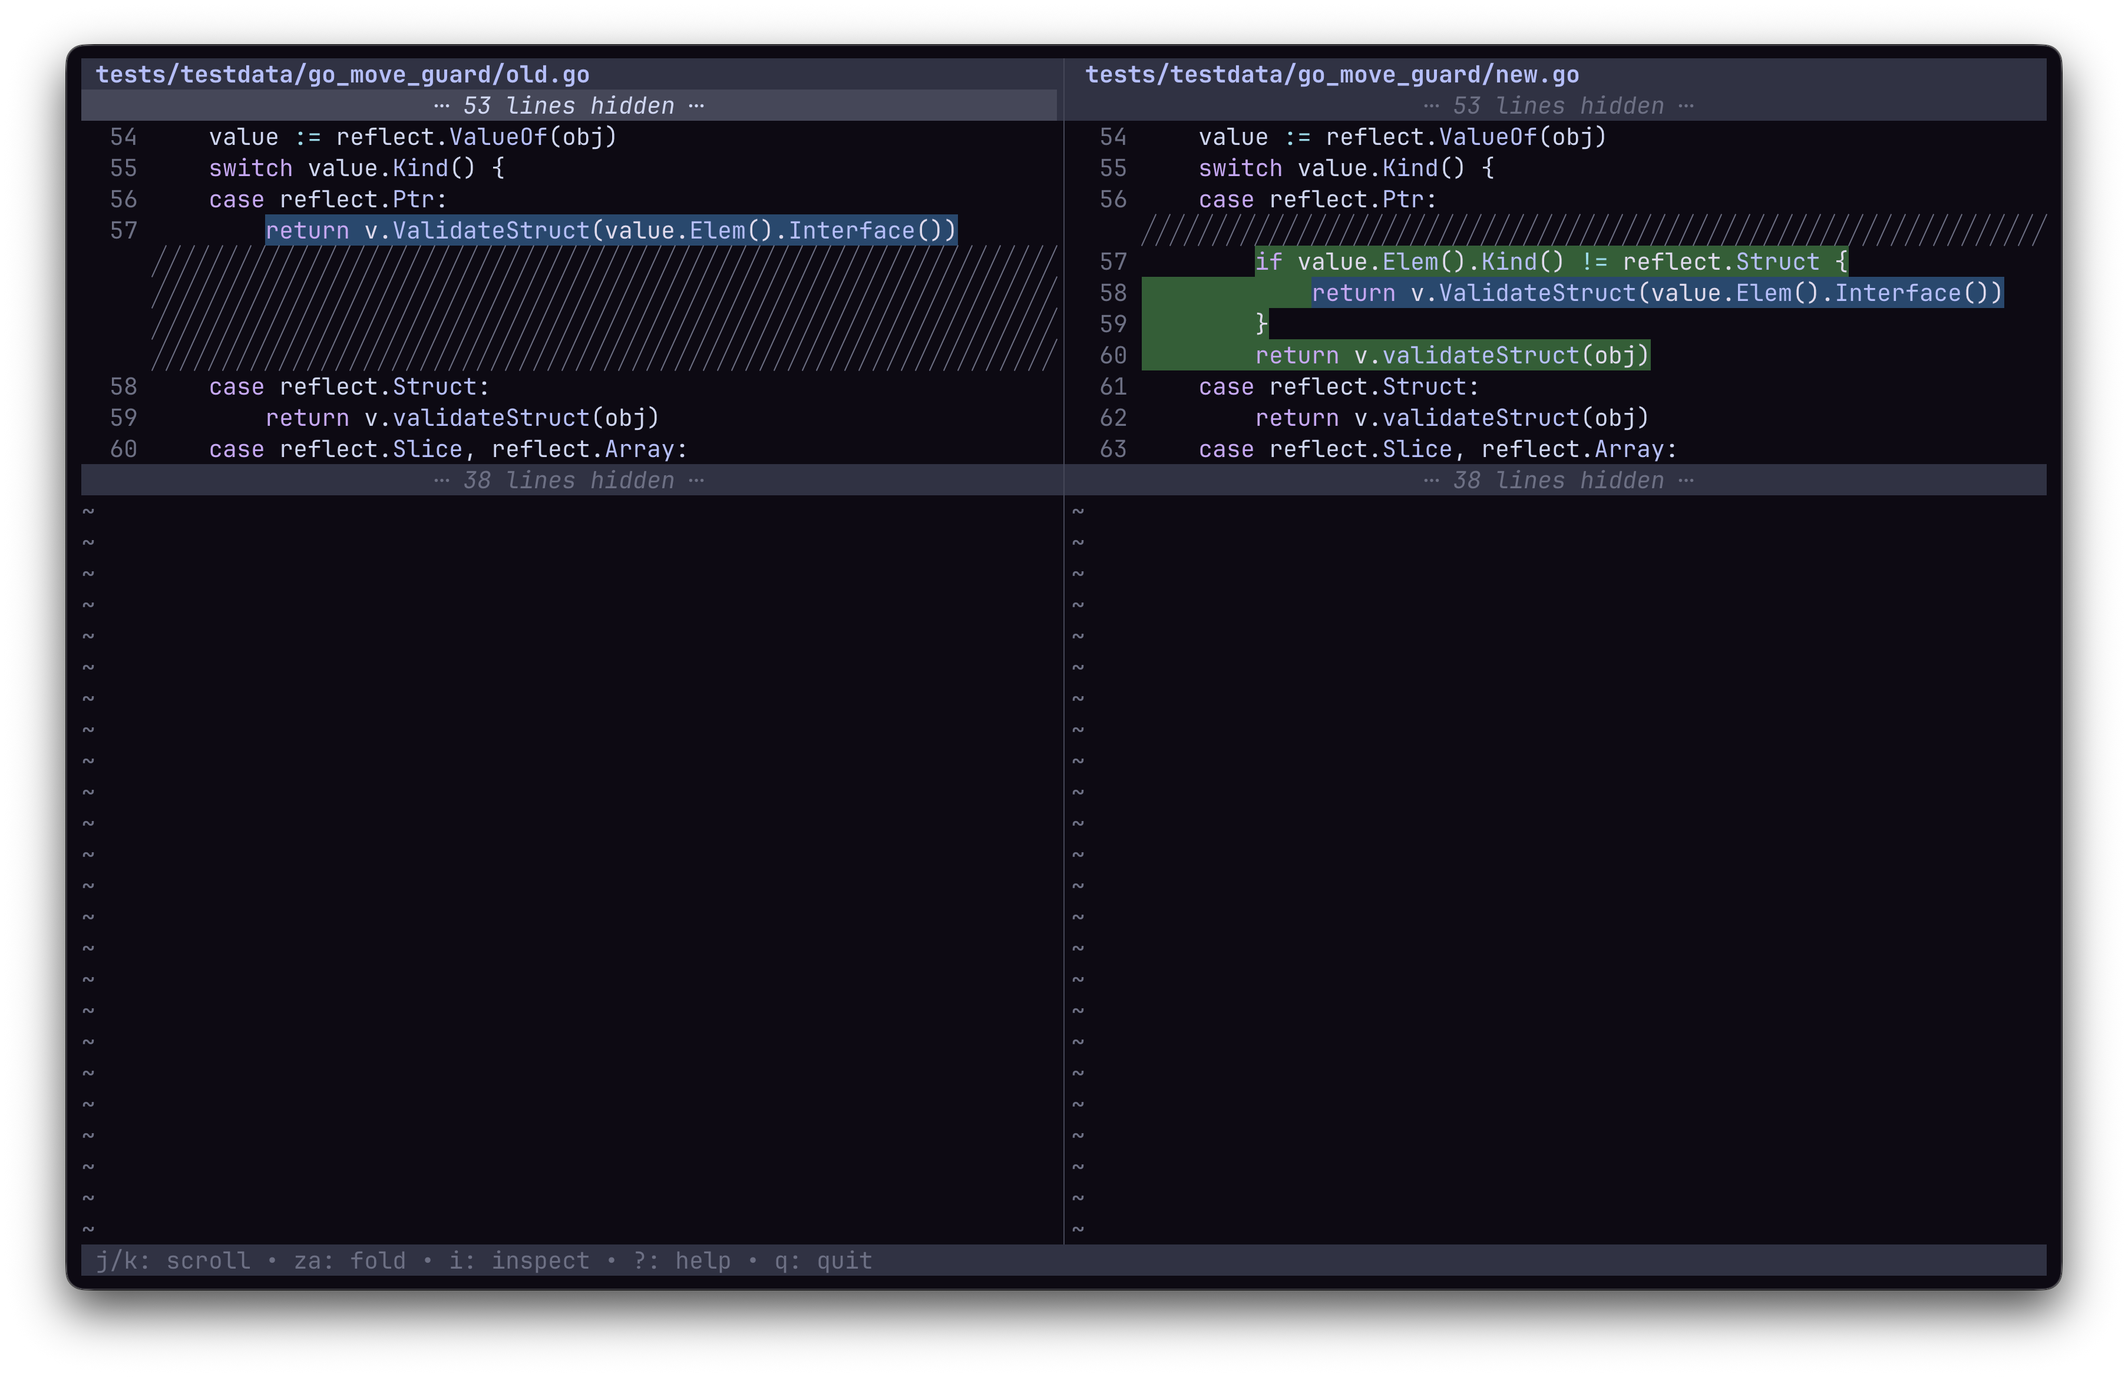
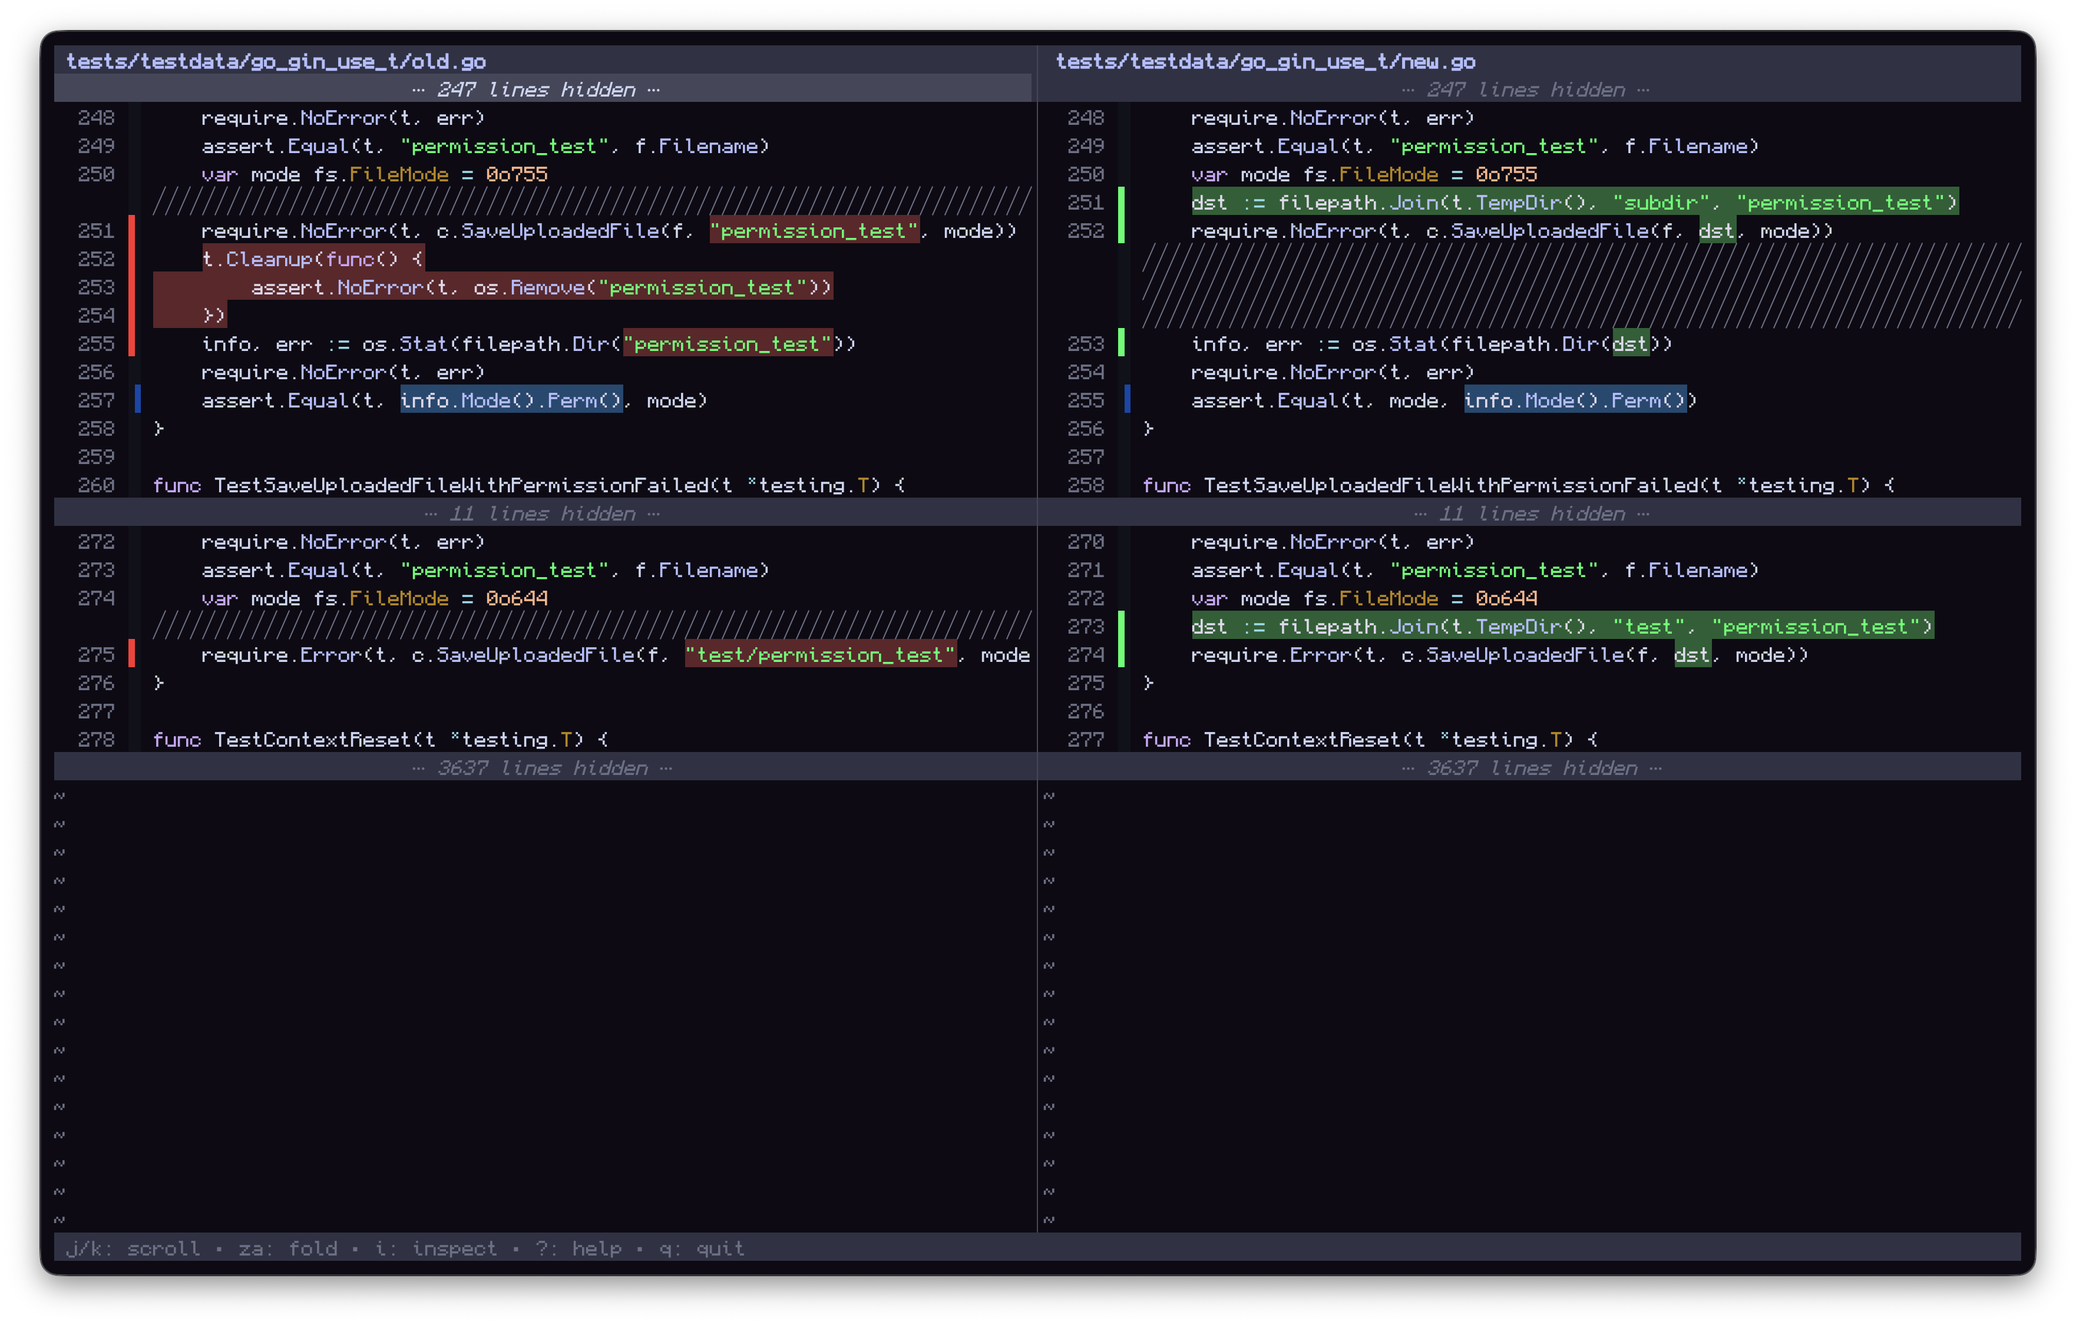
chore(release): prepare v0.5.0 release with 16-language build targets and CHANGELOG (#98)
Bump CLI version to 0.5.0 in cmd/root.go.
Add CHANGELOG.md documenting all 16 supported languages and v0.5.0 features.
Update Makefile and GoReleaser with selective 16-language build targets.
Update README with 16-language support table and custom build targets.
Configure release workflow to extract version notes directly from CHANGELOG.md.

Changed region(s): [[0.0, 0.0, 0.9989, 0.9956]]

diff --git a/cmd/root.go b/cmd/root.go
@@ -32,7 +32,7 @@ import (
 
 var rootCmd = &cobra.Command{
 	Use:     "diffm [refA] [refB]",
-	Version: "0.4.0",
+	Version: "0.5.0",
 	Short:   "Semantic diff engine powered by Tree-sitter",
 	Long: `diffmantic is a structural source code diff engine.
 
@@ -41,9 +41,7 @@ differences. It detects not just what lines changed, but what code structures
 were inserted, deleted, updated, moved, or renamed.
 
 Works as a standalone CLI, a git difftool, or a backend engine for editor
-plugins (Neovim, VS Code) via JSON output.
-
-Supported languages: Go, JavaScript, TypeScript, Python.`,
+plugins (Neovim, VS Code) via JSON output.`,
 	Args: cobra.ArbitraryArgs,
 	Run: func(cmd *cobra.Command, args []string) {
 		if git.IsGitRepository(".") {

diff --git a/CHANGELOG.md b/CHANGELOG.md
@@ -1,0 +1,137 @@
+# Changelog
+
+All notable changes to Diffmantic will be documented in this file.
+
+The format is based on [Keep a Changelog](https://keepachangelog.com/en/1.0.0/),
+and this project adheres to [Semantic Versioning](https://semver.org/spec/v2.0.0.html).
+
+## [Unreleased]
+
+## [0.5.0] - 2026-08-15
+
+### Added
+- Completed support for all 16 target languages and formats: Go, Java, JavaScript, TypeScript, JSX, TSX, Python, Rust, Zig, C, C++, PHP, Ruby, JSON, YAML, TOML, HTML, CSS, and Lua with 100+ golden integration test fixtures.
+- Added order-insensitive container node matching (`unordered`) for JSON objects, YAML mappings, TOML tables, HTML start tags, CSS selectors, Python dictionaries/sets, and Ruby hashes (PR #90).
+- Added key-value pair value container and key-name affinity matching across dictionary and map entries (PR #91).
+- Added native keyword container mapping (`keywords`) in parent containers, eliminating cross-scope keyword stealing (PR #85).
+- Added multi-line scalar and literal flattening (`flattened`) for multi-line strings, text blocks, comments, and doc comments across languages.
+- Added 400 KB file size safety limit with automatic fallback to line diffing on large source files (PR #70).
+- Added dynamic worker concurrency throttling in TUI Git status precomputation to keep memory usage under 1.8 GB (PR #72).
+- Added Action Inspector panel, change indicators, edge chevrons, and jump keys (`n`, `N`, `[`, `]`) to the TUI viewer (PR #79).
+
+### Changed
+- Shifted structural punctuation marks to ignored rules in language rule files so formatting changes do not pollute diff output (PR #83).
+- Updated production build configuration to embed the 16 core target languages using selective build tags (`grammar_subset`), reducing binary size to 13.06 MB (-55.2%).
+- Upgraded Tree-sitter core dependency from `gotreesitter` v0.48.1 to v0.50.1 (PR #97).
+
+### Fixed
+- Fixed large-distance line jumping during LineDiff DP backtracking on repeated token patterns.
+- Fixed container node matching in Bottom-Up phase with container tag-name affinity for HTML and XML elements.
+- Fixed unaligned line pair gaps by coalescing unaligned deletion and insertion rows in the alignment grid (PR #81).
+
+### Performance
+- Parallelized AST parsing (File A and File B) and line group partitioning concurrently using goroutines (PR #96), reducing full pipeline latency by ~20.5% suite-wide.
+- Rewrote Chawathe edit script child alignment with direct O(1) parent pointer checks (PR #56), cutting edit script execution time by 19.84% (geometric mean) and reducing heap allocations by 33.89%.
+- Accelerated engine performance across large 10,000-line fixtures (PR #74), achieving a 36.0% overall execution time drop (2,098 ms down to 1,333 ms geomean) and cutting heap memory by 635 MB.
+- Compacted AST nodes into root-owned flat arrays in `ASTIndex` (PR #55), reducing `BenchmarkMatch` execution time by 17.34% (geometric mean) and memory by 11.12%.
+- Reduced compiled binary size from 29.12 MB down to 13.06 MB, achieving a 55.2% size reduction using selective build tags (`grammar_subset`) and symbol stripping flags (`-ldflags="-s -w" -trimpath`).
+
+### Security
+- Updated build and dependency configurations to enforce trimmed paths and stripped symbols in production executables.
+
+## [0.4.0] - 2026-08-06
+
+### Added
+- Added Universal LineDiff engine with Matsumoto line group partitioning for line-level diffing on unstructured text and fallback cases (PR #46), cutting large diff latency by 42.17% (geometric mean) and saving 43.04% RAM (~48.7 MB per diff).
+- Added compact AST Arena index (`ASTIndex`) storing pre-order and post-order node IDs in flat arrays for O(1) subtree containment checks.
+- Added Zhang-Shasha tree edit distance recovery for exact alignment of small unmatched subtrees.
+- Added automated path-aware benchmarking workflow for pull requests.
+
+### Changed
+- Updated Tree-sitter core dependency from `gotreesitter` v0.16.0 to v0.48.1.
+
+### Fixed
+- Fixed memory thrashing during line alignment on 14,000-line files by trimming unchanged prefixes and suffixes before running LCS dynamic programming (PR #51), cutting suite execution time by 17.57% (geometric mean) and memory by 12.32%.
+
+### Performance
+- Accelerated `TopDown` candidate matching by pre-computing similarity metrics once per candidate pair and indexing height buckets with 64-bit subtree hashes. On a single 4,042-line Rust file (`rust_expr_call_precedence`), candidate sort time dropped from 9.30 seconds to 85.8 microseconds (108,000x sort speedup) and overall diff time dropped by 5.3x.
+- Accelerated `BottomUp` candidate matching by walking mapped ancestor chains instead of scanning all target nodes, speeding up BottomUp execution by 6.9x.
+- Accelerated leaf node matching with type and label hash maps alongside similarity memoization (PR #48), cutting suite execution time by 5.31% (geomean) and dropping peak leaf matching time on a single 500 KB file (`eval.lua`) from 1 minute 47 seconds to 65 milliseconds (2,000x peak speedup).
+- Accelerated line alignment serialization by trimming unchanged prefix and suffix runs (PR #51), reducing matrix memory allocations by 20,000x and speeding up peak serialization on a single 14,000-line file from 1.9 seconds to 2.7 milliseconds (700x peak speedup).
+
+### Security
+- Updated Tree-sitter dependency to patch upstream parsing vulnerabilities.
+
+## [0.3.0] - 2026-07-31
+
+### Added
+- Added revision diffing support so users can diff git commits directly with commands like `diffm HEAD~1 HEAD`.
+- Added path filtering support in Git diff mode.
+- Added automated Homebrew tap updates to the release pipeline.
+
+### Changed
+- Refactored core engine helpers to use Go standard library `slices` and `maps` packages, removing over 1,000 lines of custom helper code.
+
+### Fixed
+- Fixed noise from structural delimiters like parentheses, brackets, and braces through delimiter aliasing and post-processing punctuation filtering.
+- Fixed crashes on merge conflict files by adding fallback line-diff handling.
+
+### Performance
+- Reduced engine memory overhead by eliminating custom helper slice allocations in favor of Go standard library primitives.
+
+### Security
+- Verified safe handling of untrusted diff inputs and revision specifications.
+
+## [0.2.0] - 2026-07-26
+
+### Added
+- Added interactive terminal user interface built with Bubbletea, Lipgloss, and Bubbles.
+- Added interactive Git status mode with file tree navigation, file staging (`s`), unstaging (`u`), and inline commit capability (`c`).
+- Added Action Inspector panel (`i` key) displaying detailed AST edit action data for active lines.
+- Added syntax highlighting powered by Tree-sitter query highlights with Catppuccin Mocha color palette.
+- Added code folding for unchanged blocks while retaining surrounding context lines.
+- Added side-by-side line alignment grid syncing matching AST nodes across left and right panes.
+- Added navigation controls including vim movement keys, search, viewport centering (`z.`, `zt`, `zb`), and modal help window (`?`).
+- Added function declaration matching by receiver type and function name.
+
+### Changed
+- Updated CLI display output to launch interactive TUI mode by default when running in a terminal.
+
+### Fixed
+- Fixed scroll alignment bugs during side-by-side rendering in narrow terminal windows.
+
+### Performance
+- Optimized TUI view rendering by caching highlighted line spans across redraw cycles.
+
+### Security
+- Verified terminal escape sequence handling to prevent terminal injection.
+
+## [0.1.0] - 2026-07-14
+
+### Added
+- Created core structural AST diffing engine in Go using Tree-sitter.
+- Added two-pass tree matching pipeline with `TopDown` height-bucket matching and `BottomUp` subtree similarity matching.
+- Added Chawathe edit script generator producing atomic Insert, Delete, Move, and Update actions.
+- Added post-processing step to collapse redundant child actions into single block operations.
+- Added AST language parser rules for Go, Python, JavaScript, and TypeScript.
+- Created `diffm` CLI entry point with versioned JSON v1 schema output support.
+- Added initial release workflow configuration with GoReleaser.
+
+### Changed
+- Initial public release of Diffmantic structural diff engine.
+
+### Fixed
+- Initial release.
+
+### Performance
+- Initial baseline engine implementation.
+
+### Security
+- Initial baseline release security check.
+
+[Unreleased]: https://github.com/HarshK97/diffmantic/compare/v0.5.0...HEAD
+[0.5.0]: https://github.com/HarshK97/diffmantic/compare/v0.4.0...v0.5.0
+[0.4.0]: https://github.com/HarshK97/diffmantic/compare/v0.3.0...v0.4.0
+[0.3.0]: https://github.com/HarshK97/diffmantic/compare/v0.2.0...v0.3.0
+[0.2.0]: https://github.com/HarshK97/diffmantic/compare/v0.1.0...v0.2.0
+[0.1.0]: https://github.com/HarshK97/diffmantic/releases/tag/v0.1.0

diff --git a/README.md b/README.md
@@ -7,7 +7,7 @@
     <a href="https://github.com/HarshK97/diffmantic/actions/workflows/ci.yml"><img src="https://github.com/HarshK97/diffmantic/actions/workflows/ci.yml/badge.svg" alt="CI"></a>
     <a href="https://github.com/HarshK97/diffmantic/releases/latest"><img src="https://img.shields.io/github/v/release/HarshK97/diffmantic?label=release" alt="Latest Release"></a>
     <a href="https://github.com/HarshK97/diffmantic/blob/main/LICENSE"><img src="https://img.shields.io/github/license/HarshK97/diffmantic" alt="License: MIT"></a>
-    <a href="https://pkg.go.dev/github.com/HarshK97/diffmantic"><img src="https://img.shields.io/badge/Go-1.24+-00ADD8?logo=go&logoColor=white" alt="Go Version"></a>
+    <a href="https://pkg.go.dev/github.com/HarshK97/diffmantic"><img src="https://img.shields.io/badge/Go-1.26+-00ADD8?logo=go&logoColor=white" alt="Go Version"></a>
   </p>
 </p>
 
@@ -21,9 +21,11 @@
 
 ## Why diffmantic?
 
-AI is generating more code than ever. PRs are getting larger, way more structurally complex, and line-based diffs can't keep up. You move a function three functions down and `git diff` shows it as a delete + re-add. You rename a variable and suddenly dozens of lines light up red and green. The actual Change is buried.
+Line-based diffs like `git diff` break down when you refactor code. Move a function down 50 lines, and git shows it as a full Delete and re-add. Rename a parameter, and entire lines light up red and green.
 
-diffmantic parses your code into ASTs using [Tree-sitter](https://tree-sitter.github.io/) and computes structural differences. It knows when a function was Moved, not deleted and re-added. It shows you exactly what changed inside a node, a variable rename, a swapped argument, an updated string literal, instead of highlighting entire lines.
+Now with AI tools generating massive PRs with Moved functions and renamed symbols everywhere, the actual Change gets buried in noise. So human reviewers end up just giving in.
+
+diffmantic fixes this by parsing your code into ASTs using [Tree-sitter](https://tree-sitter.github.io/). It tracks structural shifts, so it knows when a function was Moved instead of deleted, and shows exact inline node edits instead of lighting up entire lines.
 
 It works as a standalone CLI, a drop-in for `git diff`, or a backend for editor plugins via JSON output.
 
@@ -32,18 +34,39 @@ It works as a standalone CLI, a drop-in for `git diff`, or a backend for editor 
 - **Move Detection.** When you move a function or a block, diffmantic tracks it as a Move. Not a delete + re-add. Moved functions, blocks, and statements are all first-class.
 - **Update & Rename Detection.** Shows exactly what changed inside a syntax node. A variable rename, a string literal swap, a type change, you see the precise edit, not a wall of red and green.
 - **Git Integration.** Run `diffm` in any Git repo and it launches an interactive TUI. Browse modified files, stage/unstage changes, commit, all without leaving the terminal.
-- **Interactive TUI.** Side-by-side diff view with syntax highlighting, code folding, search, and jump-to-move-counterpart. Built with [Bubbletea](https://github.com/charmbracelet/bubbletea) and [Lipgloss](https://github.com/charmbracelet/lipgloss).
+- **Interactive TUI.** Side-by-side diff view with syntax highlighting, code folding, search, Action Inspector panel (`i`), change indicators, and jump-to-change keys (`n`, `N`, `[`, `]`). Built with [Bubbletea](https://github.com/charmbracelet/bubbletea) and [Lipgloss](https://github.com/charmbracelet/lipgloss).
 - **JSON Output.** Stable schema with child-index paths (e.g., `[0, 2, 1]`) instead of line numbers. So editor plugins can keep highlights intact even as you edit the file.
-- **4 Core Languages.** Go, Python, JavaScript, TypeScript. Full AST normalization and matching rules powered by Tree-sitter.
+- **16 Core Languages.** Go, Java, JavaScript, TypeScript, Python, Rust, Zig, C, C++, PHP, Ruby, JSON, YAML, TOML, HTML, CSS, Lua. Full AST normalization and matching rules powered by Tree-sitter.
+- **Line Diff Fallback.** For unsupported file types or plain text files, Diffmantic automatically falls back to line-based diffing so you can diff any file.
 
 ## Supported Languages
 
+### Programming Languages (10)
 | Language | Extensions |
 |:---------|:-----------|
 | Go | `.go` |
-| Python | `.py` |
+| Java | `.java` |
 | JavaScript | `.js` `.jsx` `.mjs` `.cjs` |
 | TypeScript | `.ts` `.tsx` `.mts` `.cts` |
+| Python | `.py` |
+| Rust | `.rs` |
+| Zig | `.zig` |
+| C | `.c` `.h` |
+| C++ | `.cpp` `.cc` `.cxx` `.hpp` `.hh` |
+| PHP | `.php` |
+| Ruby | `.rb` |
+
+### Markup & Data Formats (6)
+| Format | Extensions |
+|:-------|:-----------|
+| JSON | `.json` |
+| YAML | `.yaml` `.yml` |
+| TOML | `.toml` |
+| HTML | `.html` `.htm` |
+| CSS | `.css` |
+| Lua | `.lua` |
+
+> **Note**: Fully supported languages include tailored AST normalization (stripping punctuation noise and flattening comment/string blocks). Other languages built via `make build-core` or `make build-all` fall back to raw AST matching.
 
 ## Installation
 
@@ -62,7 +85,7 @@ It auto-detects your OS and architecture, grabs the right binary from [GitHub Re
 curl -fsSL https://raw.githubusercontent.com/HarshK97/diffmantic/main/install.sh | sh -s -- --dir=/usr/local/bin
 
 # Install a specific version
-curl -fsSL https://raw.githubusercontent.com/HarshK97/diffmantic/main/install.sh | sh -s -- --version=v0.1.0
+curl -fsSL https://raw.githubusercontent.com/HarshK97/diffmantic/main/install.sh | sh -s -- --version=v0.5.0
 ```
 
 ### Homebrew
@@ -77,15 +100,36 @@ Prebuilt binaries for Linux, macOS, and Windows (amd64 + arm64) are on the [Rele
 
 ### Build from Source
 
-Requires Go 1.24+. No C compiler or CGo required (`CGO_ENABLED=0`).
+Requires Go 1.26+. No C compiler or CGo required (`CGO_ENABLED=0`).
 
 ```bash
 git clone https://github.com/HarshK97/diffmantic.git
 cd diffmantic
-go build -o diffm ./cmd/diffm
+
+# Default build: 16 core languages (13 MB binary)
+make build
 
 # Or install directly with Go:
 go install github.com/HarshK97/diffmantic/cmd/diffm@latest
+```
+
+#### Custom Grammar Build Targets
+
+Diffmantic supports embedding different sets of Tree-sitter grammars via `Makefile` targets:
+
+| Makefile Command | Description | Binary Size |
+| :--- | :--- | :--- |
+| `make build` | **Default**: Embeds [16 fully supported core languages](#supported-languages) | **~13.06 MB** |
+| `make build-core` | Embeds **~100 core languages** from gotreesitter | **~22.37 MB** |
+| `make build-all` | Embeds **all ~206 languages** available in gotreesitter | **~29.12 MB** |
+
+#### Building a Custom Language Subset
+
+If you only need a specific set of languages (for example, Go, Python, and Rust), you can compile a minimal binary using `gotreesitter` build tags:
+
+```bash
+# Pass 'grammar_subset' plus 'grammar_subset_<lang>' tags
+go build -tags 'grammar_subset grammar_subset_go grammar_subset_python grammar_subset_rust' -ldflags="-s -w" -trimpath -o diffm ./cmd/diffm
 ```
 
 > Built with `gotreesitter` for pure Go Tree-sitter AST parsing with zero C compiler or CGo runtime dependencies.
